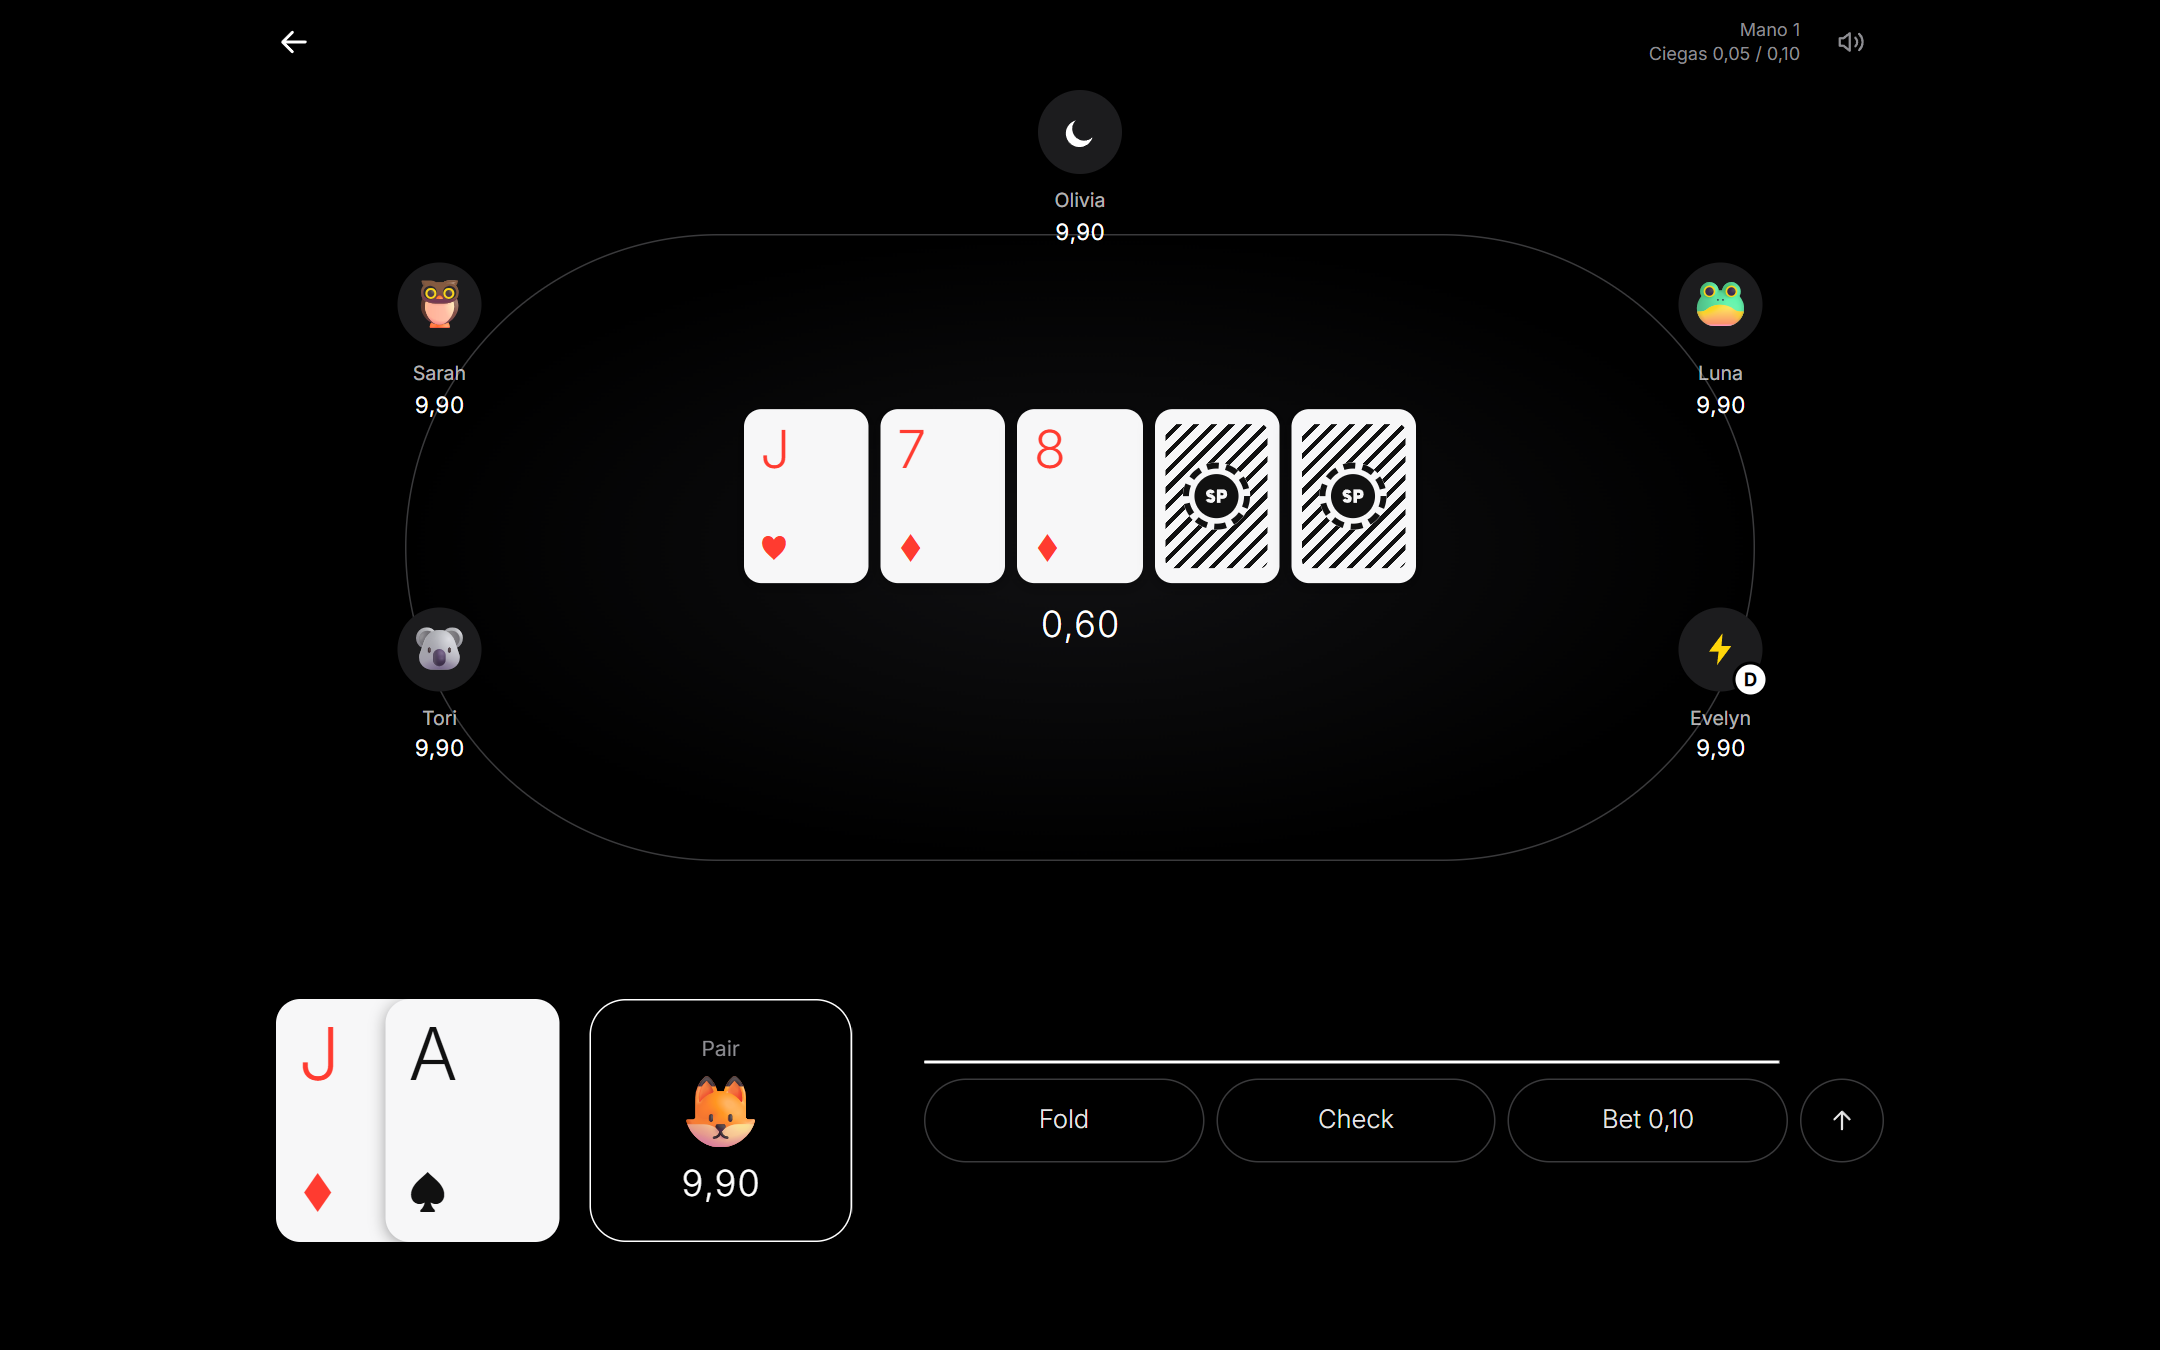
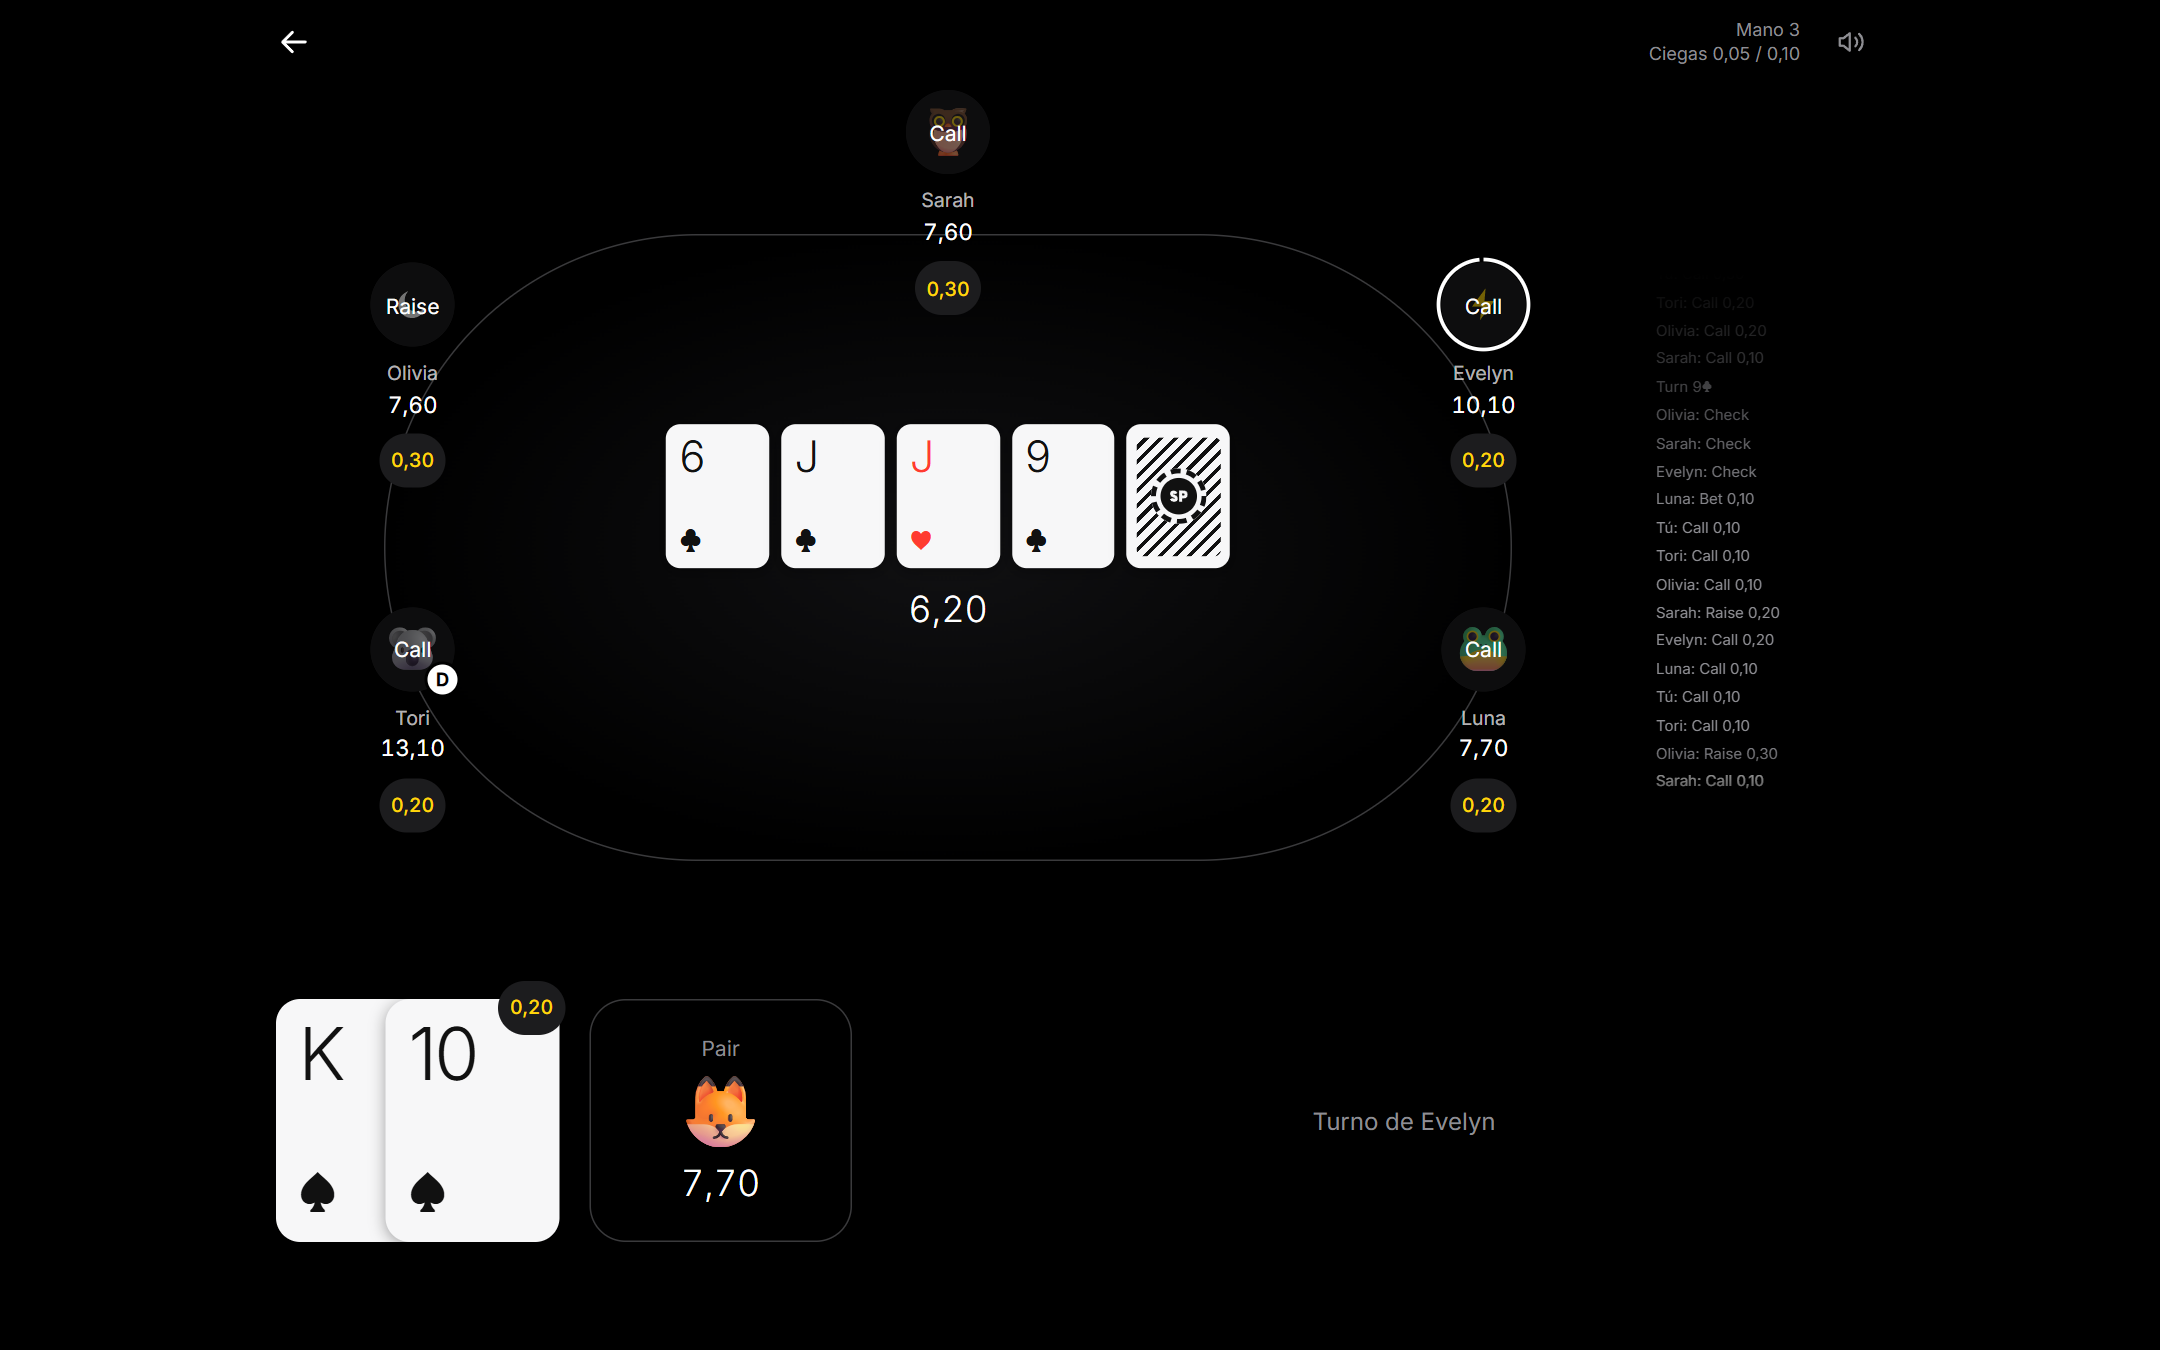
Historial de jugadas en el ordenador

diff --git a/apps/web/src/app/pages/table/hand-log.ts b/apps/web/src/app/pages/table/hand-log.ts
@@ -1,0 +1,166 @@
+import { Component, DestroyRef, computed, effect, inject, signal } from '@angular/core';
+import { takeUntilDestroyed } from '@angular/core/rxjs-interop';
+import type { Card, GameEvent } from '@solo-poker/engine';
+import { HAND_LABELS, formatMoney } from '../../core/format';
+import { TableService } from '../../core/table.service';
+
+/** Manos que se conservan en el historial (la actual y las anteriores). */
+const KEPT_HANDS = 4;
+const SUIT_SYMBOLS: Record<string, string> = { c: '♣', d: '♦', h: '♥', s: '♠' };
+const STREET_LABELS: Record<string, string> = { flop: 'Flop', turn: 'Turn', river: 'River' };
+
+type EntryKind = 'hand' | 'action' | 'win';
+
+interface Entry {
+  id: number;
+  hand: number;
+  kind: EntryKind;
+  text: string;
+}
+
+const cardText = (card: Card) => `${card[0] === 'T' ? '10' : card[0]}${SUIT_SYMBOLS[card[1]!]}`;
+
+/**
+ * Historial de la partida (solo escritorio): un "ticker" con lo que va pasando.
+ * Se construye con los eventos que llegan mientras estás en la mesa; las entradas
+ * antiguas suben y se difuminan por arriba.
+ */
+@Component({
+  selector: 'app-hand-log',
+  template: `
+    <ol class="list" aria-live="off">
+      @for (entry of entries(); track entry.id) {
+        <li class="entry" [class]="entry.kind" [class.latest]="entry.id === latestAction()" animate.enter="log-enter">
+          {{ entry.text }}
+        </li>
+      }
+    </ol>
+  `,
+  styles: `
+    :host {
+      position: relative;
+      display: block;
+      overflow: hidden;
+      font-size: 0.625rem;
+      line-height: 1.4;
+      color: var(--color-muted);
+      /* Difuminado largo arriba (lo antiguo se desvanece) y corto abajo. */
+      mask-image: linear-gradient(to bottom, transparent 0, #000 45%, #000 85%, transparent 100%);
+    }
+    .list {
+      position: absolute;
+      inset-inline: 0;
+      bottom: 1.25rem;
+      display: flex;
+      flex-direction: column;
+      gap: 0.3rem;
+    }
+    .hand {
+      margin-top: 0.5rem;
+      color: #5a5a5e;
+    }
+    .latest {
+      color: #fff;
+    }
+    .win {
+      color: var(--color-win);
+    }
+    .entry {
+      transition: color 600ms ease;
+    }
+    .log-enter {
+      animation: log-enter 350ms ease-out;
+    }
+    @keyframes log-enter {
+      from {
+        opacity: 0.3;
+        transform: translateY(0.5rem);
+      }
+    }
+  `,
+})
+export class HandLog {
+  private readonly table = inject(TableService);
+
+  protected readonly entries = signal<Entry[]>([]);
+  /** La última jugada se resalta en blanco. */
+  protected readonly latestAction = computed(
+    () => this.entries().filter((entry) => entry.kind === 'action').at(-1)?.id ?? null,
+  );
+  private nextId = 0;
+  private handNumber = 0;
+  /** Apuesta más alta de la calle, para distinguir Bet de Raise. */
+  private streetBet = 0;
+  /** Apodos conocidos: quien abandona la mesa puede no estar ya en la vista. */
+  private readonly names = new Map<string, string>();
+
+  constructor() {
+    effect(() => {
+      for (const player of this.table.view()?.players ?? []) this.names.set(player.id, player.nickname);
+    });
+    this.table.events.pipe(takeUntilDestroyed(inject(DestroyRef))).subscribe((events) => {
+      const added = events.flatMap((event) => this.describe(event));
+      if (added.length === 0) return;
+      const oldest = this.handNumber - KEPT_HANDS + 1;
+      this.entries.update((list) => [...list, ...added].filter((entry) => entry.hand >= oldest));
+    });
+  }
+
+  private name(playerId: string): string {
+    return playerId === this.table.view()?.you?.id ? 'Tú' : (this.names.get(playerId) ?? 'Alguien');
+  }
+
+  private entry(kind: EntryKind, text: string): Entry {
+    return { id: this.nextId++, hand: this.handNumber, kind, text };
+  }
+
+  private describe(event: GameEvent): Entry[] {
+    switch (event.type) {
+      case 'handStarted':
+        this.handNumber = event.handNumber;
+        this.streetBet = 0;
+        return [this.entry('hand', `Mano ${event.handNumber}`)];
+      case 'blindsPosted':
+        this.streetBet = event.bb.amount;
+        return [];
+      case 'blindsIncreased':
+        return [this.entry('hand', `Suben las ciegas: ${formatMoney(event.sb, 'plain')} / ${formatMoney(event.bb, 'plain')}`)];
+      case 'streetDealt': {
+        this.streetBet = 0;
+        const label = STREET_LABELS[event.street];
+        return label ? [this.entry('action', `${label}  ${event.cards.map(cardText).join(' ')}`)] : [];
+      }
+      case 'playerActed':
+        return [this.entry('action', `${this.name(event.playerId)}: ${this.actionText(event)}`)];
+      case 'turnTimedOut':
+        return [this.entry('action', `${this.name(event.playerId)} se queda sin tiempo`)];
+      case 'potAwarded': {
+        const names = event.winners.map((id) => this.name(id)).join(' y ');
+        const you = event.winners.length === 1 && event.winners[0] === this.table.view()?.you?.id;
+        const verb = event.winners.length > 1 ? 'se reparten' : you ? 'ganas' : 'gana';
+        const hand = event.category ? ` · ${HAND_LABELS[event.category]}` : '';
+        return [this.entry('win', `${names} ${verb} ${formatMoney(event.amount)}${hand}`)];
+      }
+      case 'playerEliminated':
+        return [this.entry('action', `${this.name(event.playerId)} se queda sin fichas`)];
+      case 'playerRebought':
+        return [this.entry('action', `${this.name(event.playerId)} recompra`)];
+      case 'playerLeft':
+        return [this.entry('action', `${this.name(event.playerId)} abandona la mesa`)];
+      default:
+        return [];
+    }
+  }
+
+  private actionText(event: Extract<GameEvent, { type: 'playerActed' }>): string {
+    const { action } = event;
+    if (action.type === 'fold') return 'Fold';
+    if (action.type === 'check') return 'Check';
+    if (action.type === 'call') {
+      return event.allIn ? `All-in ${formatMoney(event.amount, 'plain')}` : `Call ${formatMoney(event.amount, 'plain')}`;
+    }
+    const verb = event.allIn ? 'All-in' : this.streetBet === 0 ? 'Bet' : 'Raise';
+    this.streetBet = Math.max(this.streetBet, action.to);
+    return `${verb} ${formatMoney(action.to, 'plain')}`;
+  }
+}

diff --git a/apps/web/src/app/pages/table/game-table.ts b/apps/web/src/app/pages/table/game-table.ts
@@ -10,6 +10,7 @@ import { BackIcon } from '../../ui/back-icon';
 import { PlayingCard } from '../../ui/playing-card';
 import { Seat } from '../../ui/seat';
 import { ActionBar } from './action-bar';
+import { HandLog } from './hand-log';
 
 const TOAST_MS = 3_000;
 const BOARD_SIZE = 5;
@@ -19,7 +20,7 @@ const TIME_WARNING_MS = 5_000;
 /** La mesa durante la partida: rivales arriba, tablero en el centro y tu mano abajo. */
 @Component({
   selector: 'app-game-table',
-  imports: [MoneyPipe, PlayingCard, Seat, ActionBar, BackIcon, Avatar],
+  imports: [MoneyPipe, PlayingCard, Seat, ActionBar, BackIcon, Avatar, HandLog],
   template: `
     @let v = view();
     <header class="flex h-14 items-center justify-between">
@@ -50,6 +51,8 @@ const TIME_WARNING_MS = 5_000;
     -->
     <div class="arena flex flex-1 flex-col">
       <div class="felt" aria-hidden="true"></div>
+      <!-- Historial de la partida, a la derecha de la mesa (solo escritorio). -->
+      <app-hand-log class="log" />
 
       <!-- Rivales, empezando por el que se sienta a tu izquierda. -->
       <section class="opponents grid grid-cols-5 gap-x-1 gap-y-3 pt-4">
@@ -150,7 +153,8 @@ const TIME_WARNING_MS = 5_000;
     }
   `,
   styles: `
-    .felt {
+    .felt,
+    .log {
       display: none;
     }
 
@@ -161,6 +165,16 @@ const TIME_WARNING_MS = 5_000;
         flex: none;
         height: min(58vh, 34rem);
         margin-block: 3rem 2.5rem;
+        margin-right: 11rem;
+      }
+      .log {
+        display: block;
+        position: absolute;
+        top: 50%;
+        right: -11rem;
+        width: 9.5rem;
+        height: 70%;
+        transform: translateY(-50%);
       }
       .felt {
         display: block;

diff --git a/README.en.md b/README.en.md
@@ -42,6 +42,7 @@ The design is deliberately minimal: black background, thin type and nothing that
 - Blinds go up every 10 minutes, players are eliminated when they run out of chips, and the last one standing wins.
 - Configurable **rebuys** when creating a table (how many per player and for how many minutes): a busted player chooses between coming back with a new buy-in or watching.
 - **Settle-up summary** at the end: what each player put in, what they finished with and who owes whom, ready to paste into the group chat.
+- **Hand history** on desktop: a discreet column to the right of the table that fades out as it scrolls up.
 - 30 seconds per turn: when time runs out the player checks if possible, otherwise folds.
 
 **The table**

diff --git a/README.md b/README.md
@@ -40,6 +40,7 @@ El diseño es deliberadamente minimalista: fondo negro, tipografía fina y nada 
 - Ciegas que suben cada 10 minutos, eliminación al quedarse sin fichas y fin de partida con ganador.
 - **Recompras** configurables al crear la mesa (cuántas por jugador y durante cuántos minutos): quien se queda sin fichas elige entre volver con una entrada nueva o quedarse mirando.
 - **Resumen de cuentas** al acabar: lo que puso cada uno, con cuánto acaba y quién tiene que pagar a quién, listo para copiar al grupo.
+- **Historial** de jugadas en el ordenador: una columna discreta a la derecha de la mesa que se difumina al subir.
 - 30 segundos por turno: si se agota, el jugador pasa si puede y si no se retira.
 
 **La mesa**
